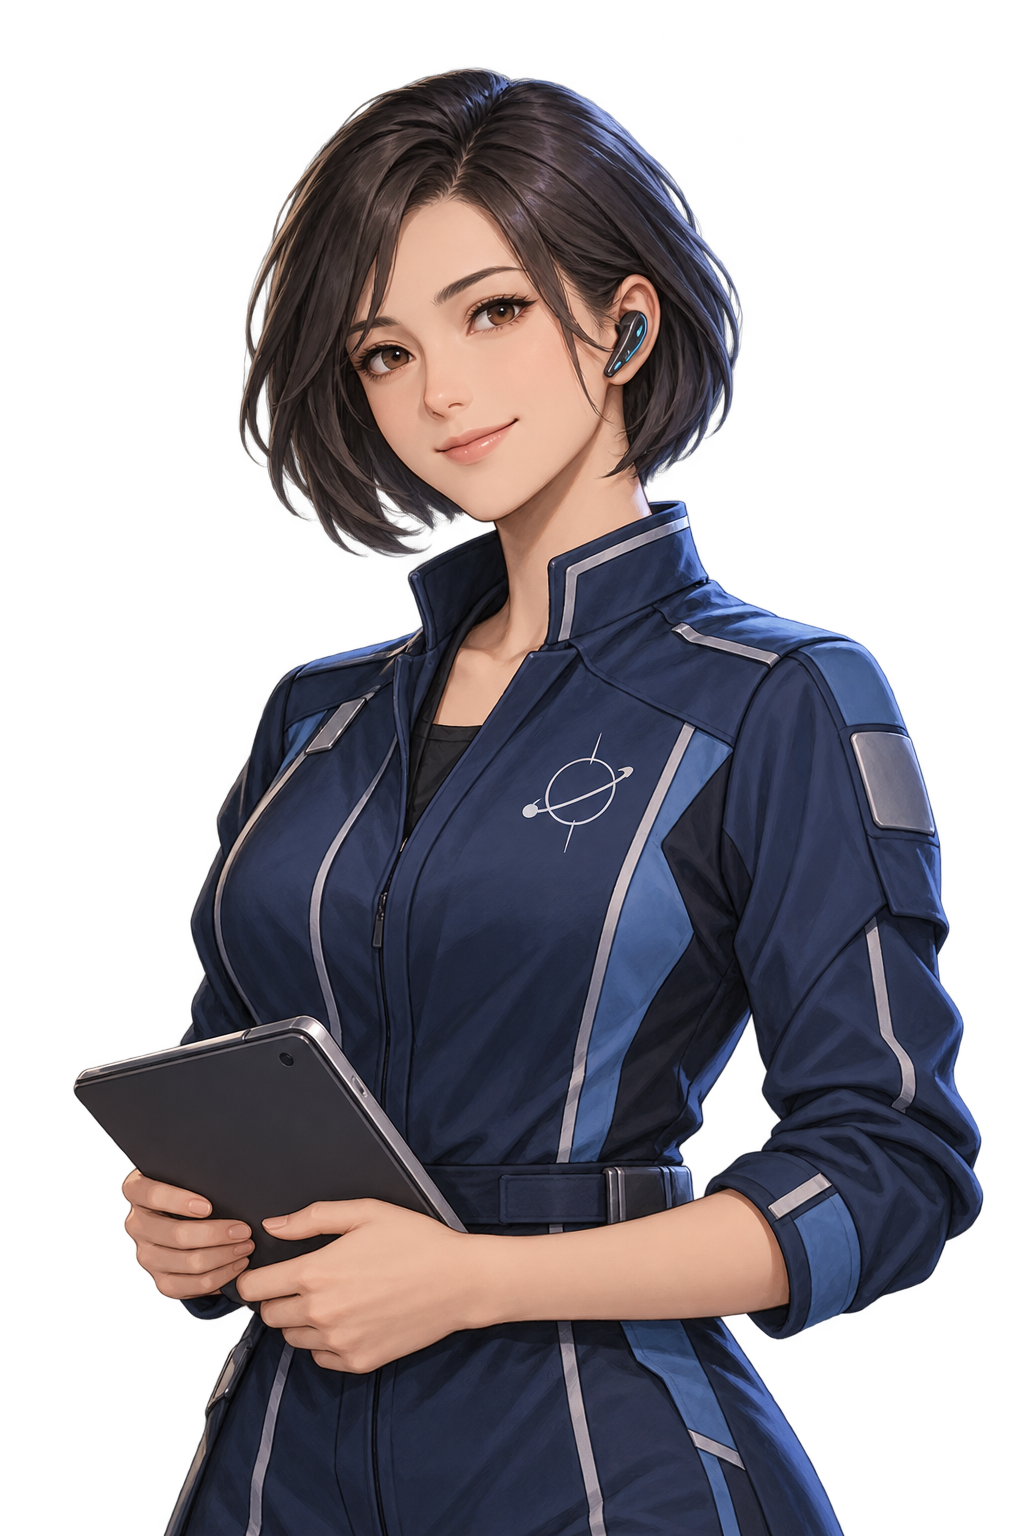
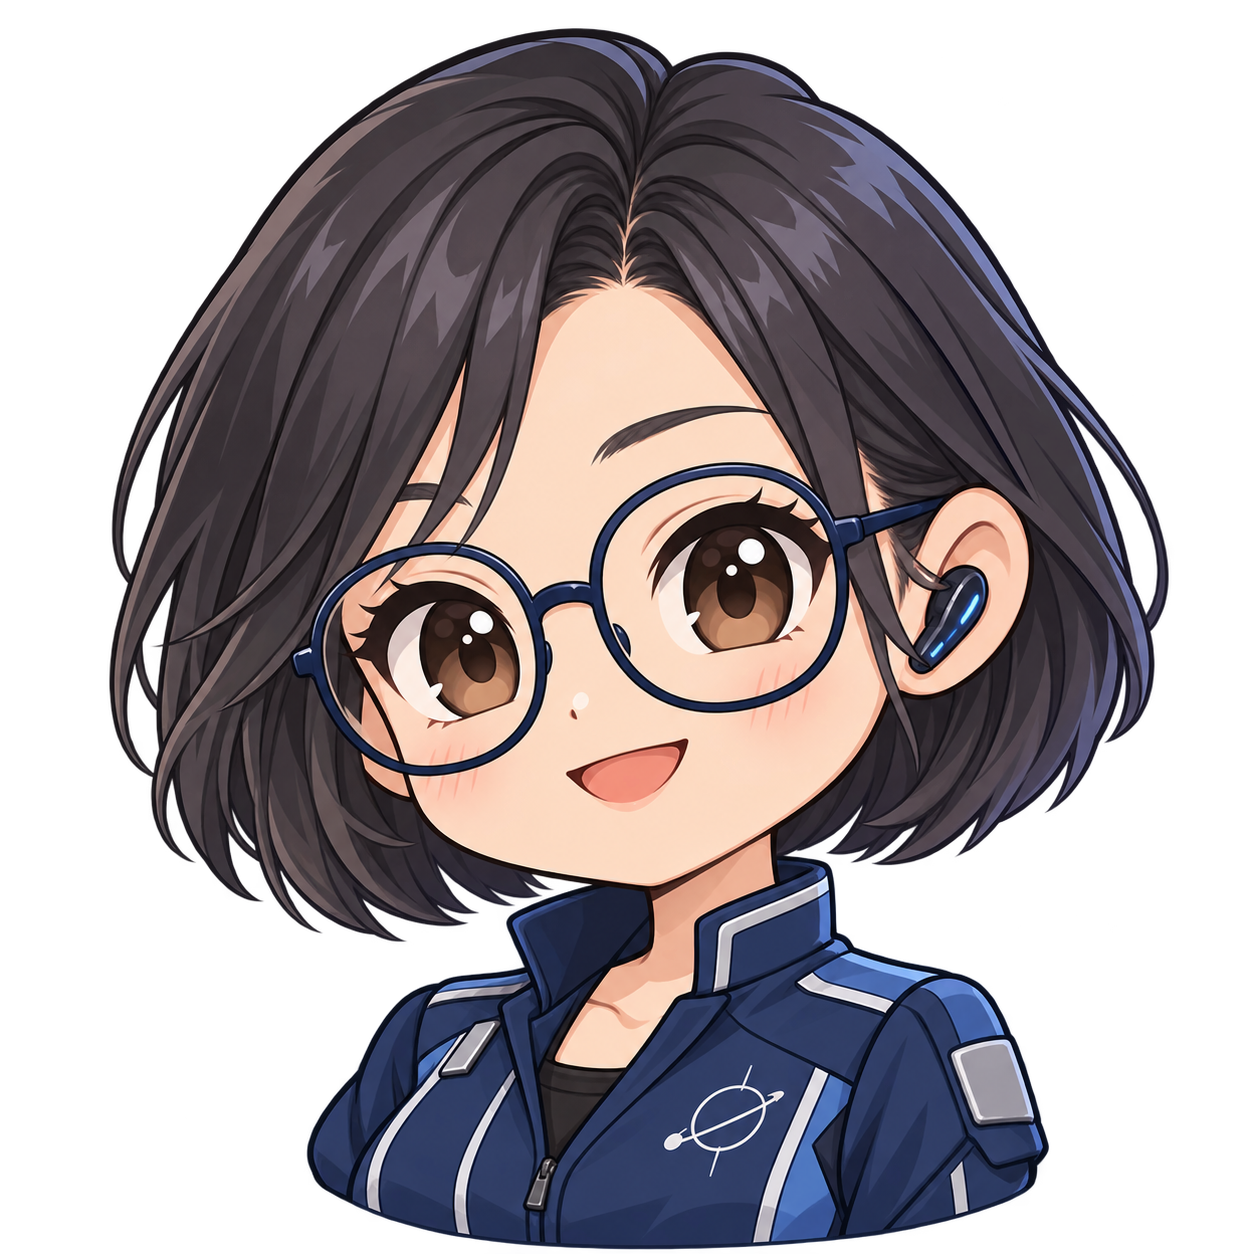
🎨design: 秘書ミナをメガネのデフォルメキャラクターへ変更

diff --git a/lib/presentation/mission_adviser.dart b/lib/presentation/mission_adviser.dart
@@ -25,7 +25,7 @@ class MinaAvatar extends StatelessWidget {
       child: Image.asset(
         'assets/images/mission_control.png',
         fit: BoxFit.cover,
-        alignment: const Alignment(0, -0.75),
+        alignment: Alignment.center,
         cacheWidth: (size * 3).round(),
         excludeFromSemantics: true,
         errorBuilder: (_, _, _) =>

diff --git a/docs/generated-story-assets.md b/docs/generated-story-assets.md
@@ -3,12 +3,18 @@
 2026-10-16。ユーザーの依頼に基づき内蔵 image_gen（imagegen スキル、CLI/APIは未使用）で生成し、リポジトリ内の assets/images にコピーしたオリジナル画像。新しい外部依存は追加していない。4枚ともオフライン配布物に同梱する。
 
 - OP: 地球を望むキービジュアルと、有限のズーム・手動字幕による3幕。動画ファイルや音声は生成していない。
-- 秘書: ミナ（仮名）。案内・Tips・導入で同一の人物を使う。透過PNG。
+- 秘書: ミナ（仮名）。ユーザーの追加希望を受け、写実的な初稿から、丸メガネを掛けたかわいらしいデフォルメ絵へ変更。案内・Tips・導入・EDで同じ顔を使う。透過PNG、顔を大きく取ったほぼ正方形の構図。
 - ED: 窓越しのドーム生活と、赤い岩盤に守られた地下生活の専用背景。方式ごとの結末を別の情景で表す。屋外の呼吸可能化や完全自立を描いた科学資料ではない。
 - 生成画の地球/火星の距離や視直径、室内設備は演出。科学の説明・出典は研究カードを優先する。
 - ファイル: [blue_horizon.png](../assets/images/blue_horizon.png)、[mission_control.png](../assets/images/mission_control.png)、[colony_home.png](../assets/images/colony_home.png)、[underground_home.png](../assets/images/underground_home.png)。
 
 ## 使用した最終プロンプト
+
+### mission_control.png 改訂版（メガネ・デフォルメ）
+
+2026-10-16のユーザー評価に基づき、内蔵 image_gen の編集で再生成。参照画像は9430869時点の同ファイルの初稿。元のボブと青い制服を引き継ぎ、絵柄・頭身・メガネ・顔中心の構図を変更した。
+
+Use case: style-transfer. Asset type: transparent character portrait for a Japanese space development game's opening, tutorial, and tiny 32–40 px adviser icons. Input image 1 is the existing fictional secretary Mina to redesign. Primary request: make Mina MUCH more stylized, cute, and super-deformed, and give her clearly visible round glasses. Preserve her short dark bob haircut, kind competent mission-adviser personality, and navy/Earth-blue operations uniform with simple light-blue piping. Change the realistic adult anatomy/rendering into a charming 2.5-head-proportion chibi cartoon design with a large rounded head, small shoulders, rounded cheeks, large expressive warm brown eyes, a small simple nose, and a cheerful gentle smile. She is still an adult professional character, represented in a cute mascot style. Glasses are essential: large round navy frames with a clearly drawn bridge, moderately thick clean rims, transparent lenses, both eyes unobscured, no glare. Style: clean Japanese game mascot illustration, bold tidy outlines, simple cel shading with only a few color tones, flat softly colored shapes; no photographic detail, no realistic skin, no painterly realistic portrait. Composition: SQUARE canvas, close head-and-shoulders bust, centered, slightly turned toward the viewer; hair top around 6 percent from top edge, whole head fully inside frame, head including hair occupies about 75 percent of the canvas width, eyes near 43 percent canvas height. Face and glasses must remain legible inside a small circular avatar. Show only a little uniform at the bottom; do not devote space to a full body, hands, or tablet. Genuine transparent background with crisp clean alpha edges. No backdrop, no glow, no frame, no cast shadow outside character, no text, no logo, no watermark. Keep palette consistent with the original navy and Earth-blue game.
 
 ### underground_home.png
 
@@ -18,7 +24,7 @@ Use case: stylized-concept. Asset type: wide ending illustration for a Japanese 
 
 Use case: stylized-concept. Asset type: wide cinematic opening background for a Japanese offline space development strategy game. Primary request: an inspiring view from a near-Earth orbital observation deck, a luminous blue Earth curving across the lower right, delicate city lights and white clouds, a small elegant uncrewed interplanetary transport departing toward a distant tiny rust-red Mars in a star field. Grounded near-future industrial spacecraft, no fantasy magic. Style: premium hand-painted science fiction game key art, refined painterly 3D lighting, detailed but calm, romantic optimism about engineering and exploration. Composition: widescreen landscape 16:9, blue Earth and spacecraft concentrated right and lower half, left third dark navy negative space for separate Japanese UI titles. Rich Earth ocean blue, soft azure rim light, subtle warm sunlight. No people, no text, no typography, no logos, no watermark. The scene depicts an artistic aspirational game narrative, not a scientific diagram.
 
-### mission_control.png
+### mission_control.png 初稿（絵柄変更により不採用）
 
 Use case: stylized-concept. Asset type: transparent-background character portrait for dialogue and tips in a Japanese science fiction city-building game. Primary request: create an original friendly, competent mission secretary and flight operations adviser named Mina, adult woman around 30, waist-up three-quarter portrait facing slightly left toward the player. Soft confident smile, attentive warm brown eyes, neat dark short bob with a subtle side part. Practical navy and Earth-blue flight operations uniform, understated pale blue piping, a small geometric orbit insignia without letters, discreet earpiece, holding a thin tablet low at her waist. Professional, approachable, grounded scientist/engineer mood. Painterly premium Japanese game illustration, restrained anime influence, clean silhouette, softly rendered materials and cinematic cool fill with warm skin, visual clarity even when portrait is small. Entire head and shoulders fully inside frame with generous transparent margins. Genuinely transparent background, no frame, no scenery, no text, no typography, no watermark, no sexualized costume, no oversized accessories.
 

diff --git a/docs/project-memory.md b/docs/project-memory.md
@@ -66,6 +66,7 @@
 - 宇宙技術の研究6本、土地/隣接の数値内訳と工業隣接の減収表示を追加。効率以外の固有生産や全球閾値は未決定。
 - 実装・5巡レビュー・検証は [青い地球と物語の改善](blue-horizon-improvements.md)。
 - 今回の公開pushは自動承認審査で拒否。前回の別チャットの本番承認を再取得しても今回の承認としては認められず、ローカルの実装・検証・コミットまで完了。公開リポジトリへの送信とdevelop/main反映は今回の確認待ち。今回分を公開済みとは扱わない。
+- キャラクターを見たユーザーから「リアルより、もっとデフォルメされたかわいらしいキャラクター」「メガネをかけてほしい」と評価・修正依頼。秘書ミナはメガネを掛けたデフォルメ絵へ変更する。写実的な初稿を今後のキャラクター基準にしない。
 
 ## 維持する基盤と保留事項
 
